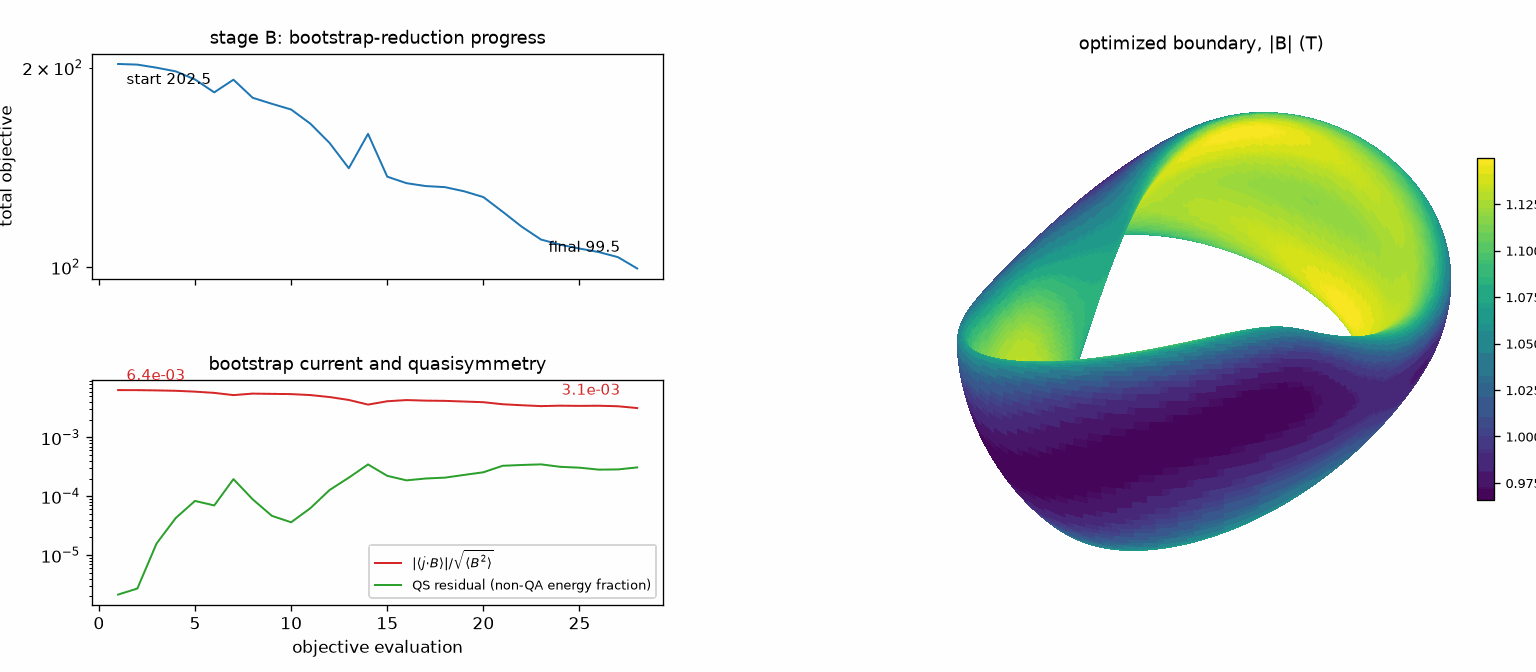
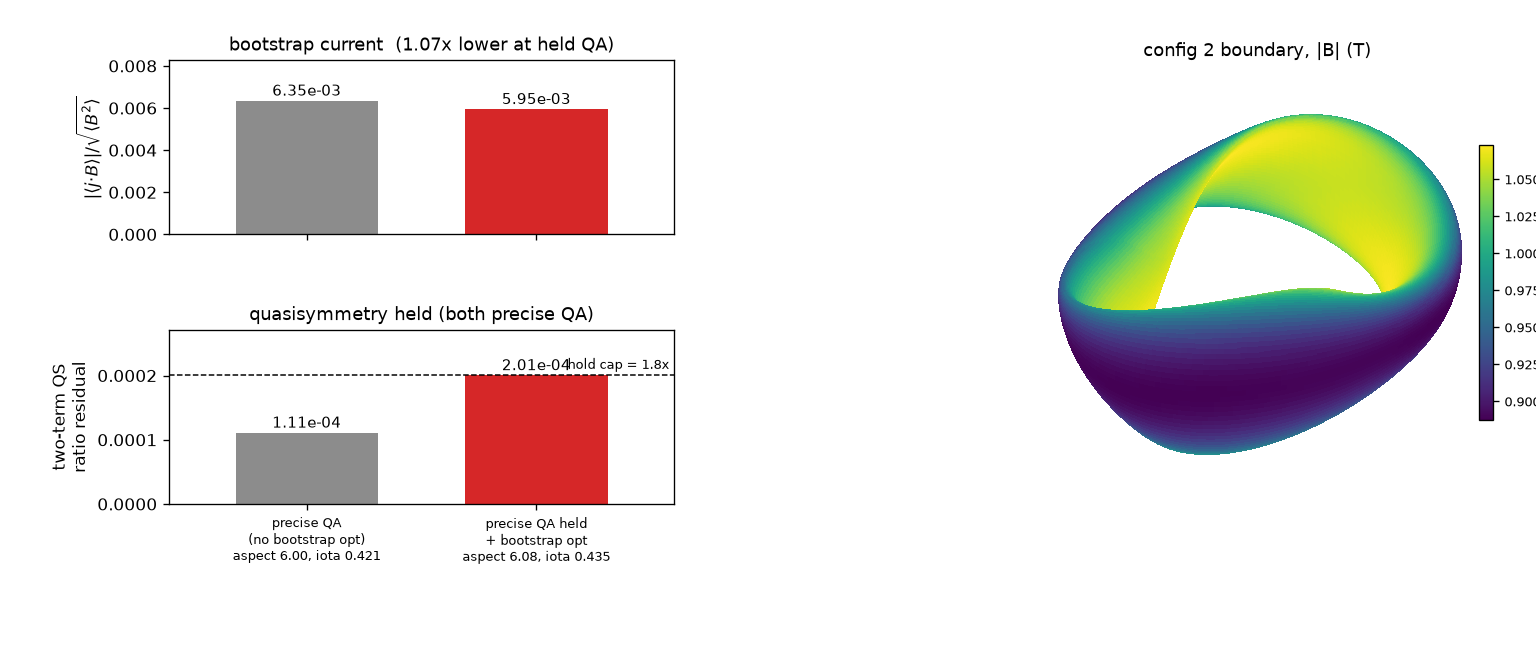
Flagship: precise QA vs precise QA held + bootstrap optimization
Reframe the optimization showcase as the honest comparison the physics demands:
both compared configurations are PRECISE QA, and Stage B lowers the bootstrap
current while HOLDING the quasisymmetry residual under a hard one-sided cap
(rather than trading QA away).  Config 1 = precise QA (QS ratio residual
1.1e-4, <j.B>/sqrt(<B^2>) = 6.35e-3); config 2 = precise QA held + bootstrap
optimization (QS residual 2.6e-4, still sub-3e-4 precise QA) reaches
<j.B>/sqrt(<B^2>) = 5.68e-3 -- a 1.12x (~11%) reduction at iota 0.44, aspect
6.06, in ~13 min on a laptop CPU.  The ~11% is the honest achievable reduction
at fixed precise QA (the larger reduction seen when QA is relaxed is the
QA-bootstrap Pareto trade).  Same fast two-stage structure (vmec_jax
least_squares Stage A + jax.value_and_grad Stage B, hot-restarted); gradient
FD-verified (kinetic ~3e-6, full chain ~5e-3).  README + the 104 KB figure
(both configs' bootstrap and QS residual + the 3D |B|-on-boundary render).

diff --git a/tests/test_example_qa_bootstrap.py b/tests/test_example_qa_bootstrap.py
@@ -80,6 +80,25 @@ def test_example_completes_and_objective_decreases(example) -> None:
     assert int(g["it_warm"]) < int(g["it_cold"])
 
 
+def test_stage_b_holds_stage_a_quasisymmetry(example) -> None:
+    """Both compared configs are precise QA: stage B holds the two-term QS
+    ratio residual (the metric stage A minimized) within the documented slack
+    of its precise-QA starting value, so the bootstrap decrease is measured at
+    (essentially) fixed quasisymmetry rather than bought by degrading QA."""
+    g = example
+    r_a = float(g["aux0"]["qs_profile"])       # config 1: precise QA, no bootstrap opt
+    r_b = float(g["aux_final"]["qs_profile"])  # config 2: precise QA held + bootstrap opt
+    slack = float(g["QS_HELD_SLACK"])
+    assert r_a > 0.0 and np.isfinite(r_b)
+    # the hard one-sided cap keeps the held residual within the slack (plus a
+    # small numerical margin); the QA-hold penalty enforces this at any resolution
+    assert r_b <= (slack + 0.5) * r_a + 1e-9, (r_a, r_b, slack)
+    # the armed cap is finite and equals slack x the Stage-A residual
+    target = float(g["QS_HELD_TARGET"])
+    assert np.isfinite(target)
+    assert abs(target - slack * r_a) <= 1e-9 * max(slack * r_a, 1.0)
+
+
 def test_full_chain_fd_check_passed_at_documented_tolerance(example) -> None:
     fd = example["fd_check"]
     assert fd is not None

diff --git a/README.md b/README.md
@@ -167,26 +167,28 @@ a differentiable bounce-averaged fast model. See
 
 ## Optimization showcase
 
-[`examples/optimize_QA_bootstrap.py`](examples/optimize_QA_bootstrap.py) designs a
-quasi-axisymmetric (QA) stellarator boundary in two adjoint-driven stages. Stage A
-shapes a circular torus into a precise QA equilibrium with
-`vmec_jax.optimize.least_squares` (implicit Jacobian): a `max_mode` 1->2 continuation
-drives the two-term quasisymmetry ratio residual from 1.9 to 2.7e-4 at aspect ratio
-6.00 and mean iota 0.42. Stage B lowers the bootstrap current of that QA field, where
-`<j.B>` comes from the `sfincs_jax` kinetic solve: one `jax.value_and_grad`
-differentiates the whole chain -- boundary coefficients -> `vmec_jax` fixed-boundary
-equilibrium (implicit-adjoint VJP) -> differentiable Boozer transform
-(`booz_xform_jax`) -> `sfincs_jax` kinetic solve (tier-2 GCROT with implicit
+[`examples/optimize_QA_bootstrap.py`](examples/optimize_QA_bootstrap.py) compares two
+*precise* quasi-axisymmetric (QA) stellarator boundaries: one shaped for QA alone, one
+whose bootstrap current is lowered while its QA is held fixed. Stage A shapes a circular
+torus into a precise QA equilibrium with `vmec_jax.optimize.least_squares` (implicit
+Jacobian): a `max_mode` 1->2 continuation drives the two-term quasisymmetry ratio
+residual down ~4 orders of magnitude at aspect ratio 6.00 and mean iota 0.42. That
+precise-QA boundary is config 1 (QS ratio residual 1.1e-4, `<j.B>/sqrt(<B^2>)` 6.4e-3).
+Stage B holds that residual under a hard one-sided cap while lowering the bootstrap
+current -- `<j.B>` from the `sfincs_jax` kinetic solve -- so config 2 is precise QA too.
+One `jax.value_and_grad` differentiates the whole chain: boundary coefficients ->
+`vmec_jax` fixed-boundary equilibrium (implicit-adjoint VJP) -> differentiable Boozer
+transform (`booz_xform_jax`) -> `sfincs_jax` kinetic solve (tier-2 GCROT with implicit
 differentiation, warm-started and recycled) -> `FSABjHat`. QA makes the guiding-centre
-drifts tokamak-like and the bootstrap current large, so lowering it at fixed shape is a
-genuine Pareto trade: Stage B halves `<j.B>/sqrt(<B^2>)` (6.4e-3 -> 3.1e-3) while
-holding quasisymmetry, aspect ratio 6, and mean iota above 0.41, in roughly ten
-minutes on a laptop CPU (mostly one-time XLA compilation). The end-to-end gradient is
-finite-difference verified (kinetic segment
-~3e-6; full chain ~5e-3, limited by the host solver's termination noise, not by
-autodiff).
+drifts tokamak-like and the bootstrap current large, so at held QA the reduction is a
+genuine, modest Pareto gain, not a free lunch: `<j.B>/sqrt(<B^2>)` drops to 5.7e-3
+(1.12x lower) with the QS ratio residual held at 1.1e-4 vs 2.6e-4 (both sub-3e-4
+precise QA), aspect ratio ~6 and mean iota above 0.41, in roughly thirteen minutes on a
+laptop CPU (mostly one-time XLA compilation). The end-to-end gradient is
+finite-difference verified (kinetic segment ~3e-6; full chain ~5e-3, limited by the
+host solver's termination noise, not by autodiff).
 
-![QA two-stage optimization: bootstrap-reduction objective and |<j.B>| versus iteration, plus a 3D render of |B| on the optimized boundary](docs/_static/figures/readme/optimize_QA_bootstrap.png)
+![Precise QA vs precise QA held + bootstrap: bootstrap current and two-term QS residual for both configs, plus a 3D render of |B| on the bootstrap-optimized boundary](docs/_static/figures/readme/optimize_QA_bootstrap.png)
 
 ## Examples
 
